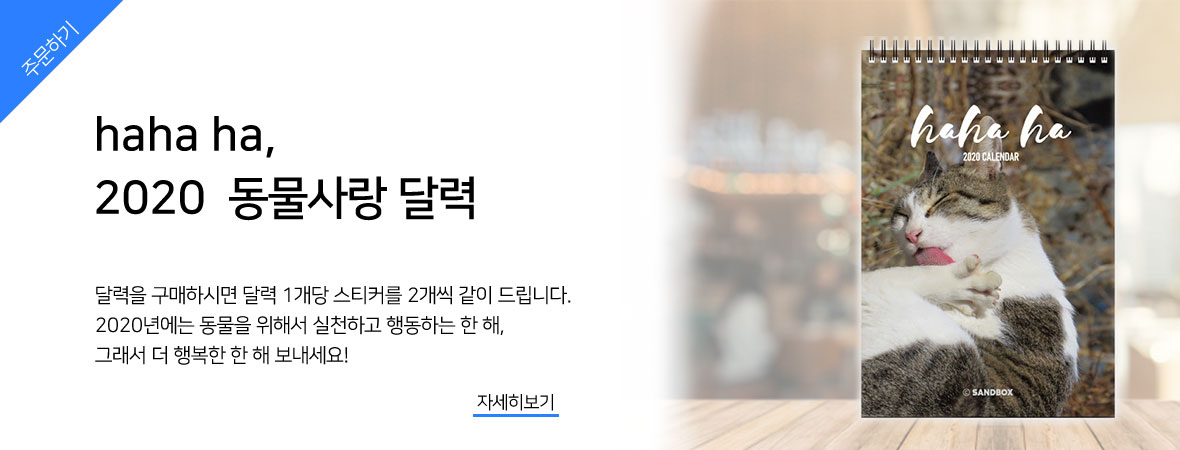
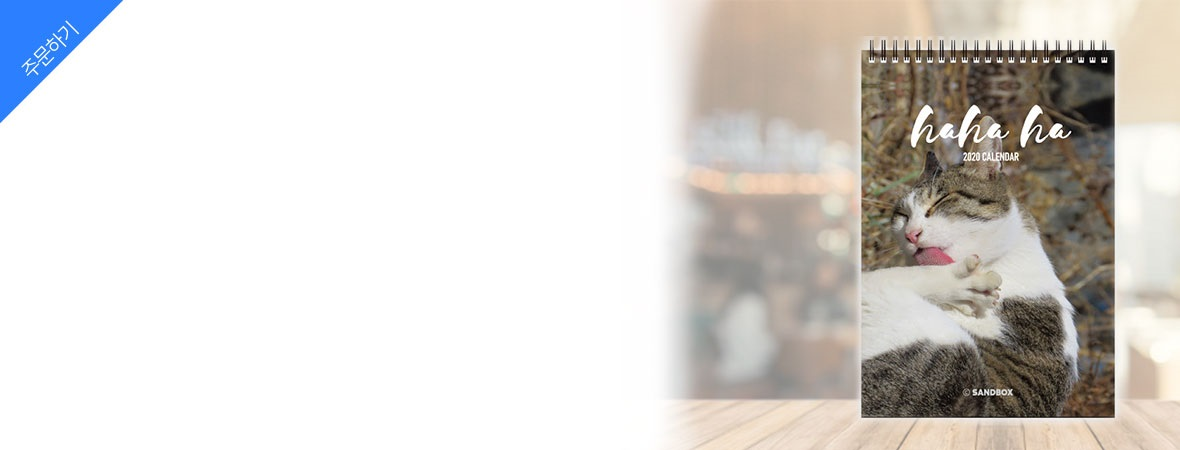
슬라이드 내용, 문구 구성
간격 오류남

diff --git a/css/animal02.css b/css/animal02.css
@@ -24,7 +24,9 @@ header .h_top p{
 /* 헤더 아랫부분 */
 header .h_bottom{
     max-width: 1200px;
+    height: 130px;
     margin: 0 auto;
+    margin-bottom: 100px;
 }
 /* float 해제하기 */
 header .h_bottom::after{
@@ -200,39 +202,70 @@ header .h_bottom .find input[type="submit"]{
     position: relative;
     background-color: olive;
 }
-.slide ul{
+.slide .slide_wrap{
     width: calc(1200px * 4);
     width: 4800px;
+    height: 450px;
     position: absolute;
     top: 0;
     left: 0;
     font-size: 0;
 }
-.slide ul li{
+.slide .slide_wrap .box{ 
     display: inline-block;
     width: 1200px;
     height: 450px;
+    font-family: 'Nanum Gothic Coding', monospace;
 }
-.slide ul li:nth-child(1){
+.slide .slide_wrap .box h2{
+    font-size: 40px;
+    font-weight: 600;
+}
+.slide .slide_wrap .box p,
+.slide .slide_wrap .box a{
+    font-size: 18px;
+}
+.slide .slide_wrap .box a{
+    border-bottom: 3px solid #007cf9;
+}
+/* 박스 1번 설정 */
+.slide .slide_wrap .box:nth-child(1) h2,
+.slide .slide_wrap .box:nth-child(1) p,
+.slide .slide_wrap .box:nth-child(1) a{
+    position: relative;     
+    top: 100px;
+    left: 70px;
+    margin-bottom: 5px; 
+}
+.slide .slide_wrap .box:nth-child(1) h2:last-of-type,
+.slide .slide_wrap .box:nth-child(1) p:last-of-type{
+    /* margin-bottom: 30px; */
+}
+/* 박스 2번 설정 */
+/* 박스 3번 설정 */
+/* 박스 4번 설정 */
+
+
+.slide .slide_wrap .box:nth-child(1){
     background: url(../images/banner01.jpg) center;
     background-size: 100% ;
 }
-.slide ul li:nth-child(2){
+.slide .slide_wrap > .box:nth-child(2){
     background: url(../images/banner02.jpg) center;
     background-size: 100%;
 }
-.slide ul li:nth-child(3){
+.slide .slide_wrap .box:nth-child(3){
     background: url(../images/banner03.jpg) center;
     background-size: 100%;
 }
-.slide ul li:nth-child(4){
+.slide .slide_wrap .box:nth-child(4){
     background: url(../images/banner04.jpg) center;
     background-size: 100%;
 }
 /* 버튼 부분 설정 */
 .slide #back{
-    width: 25px;
-    height: 25px;
+    width: 30px;
+    height: 30px;
     position: absolute;
     top: 50%;
     left: 0;
@@ -241,8 +274,8 @@ header .h_bottom .find input[type="submit"]{
     transform: rotateY(180deg);
 }
 .slide #next{
-    width: 25px;
-    height: 25px;
+    width: 30px;
+    height: 30px;
     position: absolute;
     top: 50%;
     right: 0;

diff --git a/index.html b/index.html
@@ -74,12 +74,46 @@
 <!-- 헤더영역 끝 -->
 <!-- 슬라이드 영역 시작 -->
     <div class="slide">
-        <ul>
+        <div class="slide_wrap">
+            <div class="box">
+                <h2>haha ha,</h2>
+                <h2>2020 동물사랑 달력</h2>
+                <p>달력을 구매하시면 달력 1개당 스티커를 2개씩 같이 드립니다.</p>
+                <p>2020년에는 동물을 위해서 실천하고 행동하는 한 해,</p>
+                <p>그래서 더 행복한 한 해 보내세요!</p>
+                <a href="#">자세히보기</a>
+            </div>
+            <div class="box">
+                <h2>사지말고 입양해요!</h2>
+                <h2>따뜻한 가족이 됩니다.</h2>
+                <p>한 해 버려지는 동물, 8200마리…</p>
+                <p>예쁜 아이들의 가족이 되어 주세요.</p>
+                <a href="#">자세히보기</a>
+            </div>
+            <div class="box">
+                <h2>개 식용!</h2>
+                <h2>문화가 아닌 악습입니다.</h2>
+                <p>우리는 음식이 아닙니다.</p>
+                <p>끊임없이 학대당하는 개들과</p>
+                <p>시대 착오적 개식용 산업 방치로 고통받는 국민이 없도록</p>
+                <p>국민청원에 참여해 주십시오.</p>
+                <a href="#">자세히보기</a>
+            </div>
+            <div class="box">
+                <h2>중성화 수술, 꼭 해야 할까요?</h2>
+                <p>미국에서 강아지 4만여 마리의 의학기록을 분석한 결과</p>
+                <p>중성화수술을 한 강아지, 1.5년 더 산다.</p>
+                <p>수명이 10%나 늘어나는 생명연장의 기적이</p>
+                <p>중성화 수술로 일어난 것이죠</p>
+                <a href="#">자세히보기</a>
+            </div>
+        </div>
+        <!-- <ul>
             <li><a href="#"></a></li>
             <li><a href="#"></a></li>
             <li><a href="#"></a></li>
             <li><a href="#"></a></li>
-        </ul>
+        </ul> -->
         <!-- 버튼 부분 -->
         <img id="back" src="images/right-arrow.png" alt="이전">
         <img id="next" src="images/right-arrow.png" alt="다음">

diff --git a/animal02.js b/animal02.js
@@ -20,7 +20,7 @@ $(document).ready(function(){
     var img_count;
     var img_position = 1;
 
-    imgs = $(".slide ul");
+    imgs = $(".slide_wrap");
     img_count = imgs.children().length;
     
     //버튼을 클릭했을 대 함수 실행
